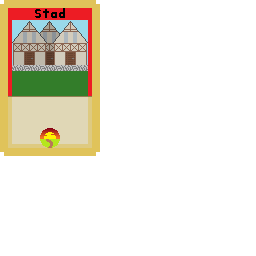
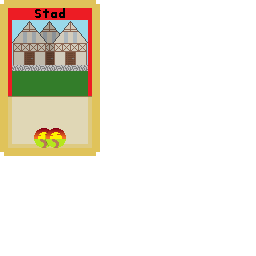
Kleine veranderingen.

Changed region(s): [[0.125, 0.5, 0.2812, 0.5938]]

diff --git a/src/Main.java b/src/Main.java
@@ -13,10 +13,10 @@ public class Main {
         frame.setLayout(null);
 
         ImageIcon cardTownA = new ImageIcon("Kaart Dorp.png");
-        Kaart townA = new Kaart(100, 100, cardTownA.getIconWidth(), cardTownA.getIconHeight(), "Knight", cardTownA);
+        Kaart townA = new Kaart(100, 100, cardTownA.getIconWidth(), cardTownA.getIconHeight(), "Town", cardTownA);
 
         ImageIcon cardTownB = new ImageIcon("Kaart Stad.png");
-        Kaart townB = new Kaart(townA.getX(), townA.getY(), cardTownB.getIconWidth(), cardTownB.getIconHeight(), "Knight", cardTownB);
+        Kaart townB = new Kaart(townA.getX(), townA.getY(), cardTownB.getIconWidth(), cardTownB.getIconHeight(), "City", cardTownB);
 
         JButton startButton = new JButton("Start Catan");
         startButton.setBounds(100, 100, 200, 50);
